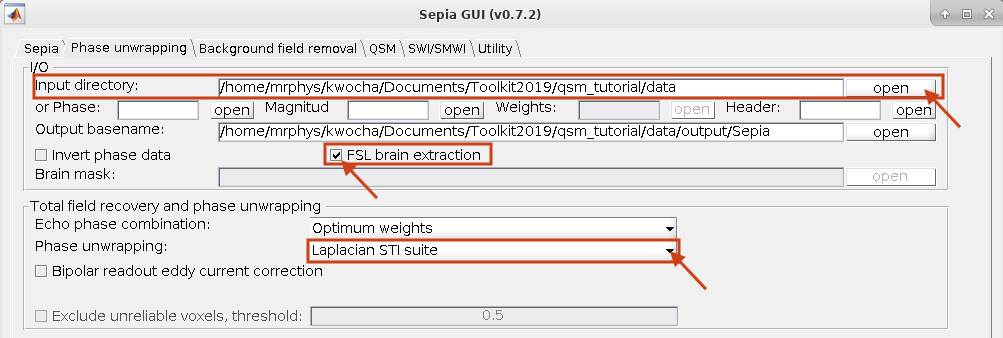
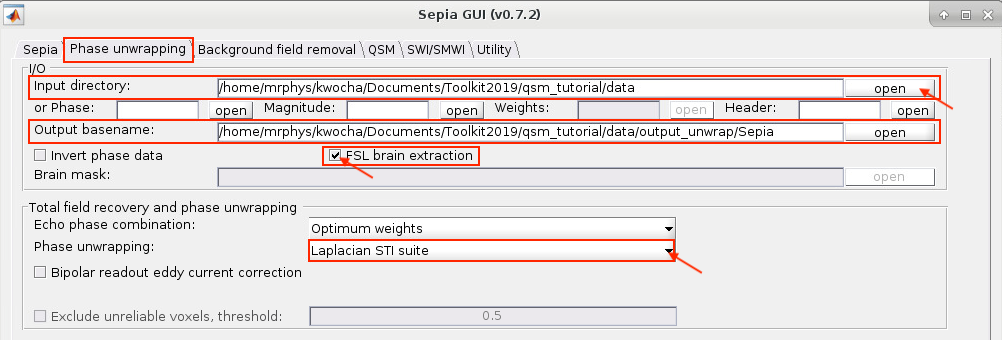
new commit

diff --git a/conf.py b/conf.py
@@ -98,6 +98,7 @@ html_static_path = ['_static']
 # 'searchbox.html']``.
 #
 # html_sidebars = {}
+html_logo = 'asset/logo.png'
 
 
 # -- Options for HTMLHelp output ---------------------------------------------

diff --git a/tutorial/fMRItoolkit2019/Exercise4.rst b/tutorial/fMRItoolkit2019/Exercise4.rst
@@ -6,7 +6,7 @@ Exercise 4
 Objectives
 ----------
 
-- Understanding 
+- Understanding QSM dipole inversion
 - Gaining experience to use QSM algorithms
 
 Data Required
@@ -80,7 +80,6 @@ Exercise 4.3
 
 To further improve the quality of the QSM map, some methods, such as Star-QSM, incorporate the additional information during the QSM dipole inversion.
 
-#. Select the **Magnitude** input: *mag.nii.gz*
 #. Change the **Output basename** to: *~/qsm_tutorial/data/output_qsm/Sepia_star-qsm*.
 #. Change the **QSM** method to 'Star-QSM' and press **Start**. It will take about 2 mins to finish.
 #. Check the result *Sepia_star-qsm_QSM.nii.gz* in the output directory. Display it along with the *Sepia_tdf-0p15_QSM.nii.gz* in FSLeyes. Can you see any difference?

diff --git a/tutorial/fMRItoolkit2019/Exercise2.rst b/tutorial/fMRItoolkit2019/Exercise2.rst
@@ -6,7 +6,7 @@ Exercise 2
 Objectives
 ----------
 
-- Understanding why we need to correct the phase data before mapping the magnetic susceptibility
+- Understanding how to perform phase unwrapping
 
 Data Required
 ^^^^^^^^^^^^^
@@ -83,7 +83,7 @@ You will see two panels under the tab: the **I/O** panel is for data input and o
 In the **I/O** panel:
 
 #. Select the **Input directory**: *~/qsm_tutorial/data*
-# Change the **Output basename** to: *~/qsm_tutorial/data/output_unwrap/Sepia*
+#. Change the **Output basename** to: *~/qsm_tutorial/data/output_unwrap/Sepia*
 #. Check the **FSL brain extraction** 
    It is essential to have a brain mask to produce a high-quality QSM map.  
 

diff --git a/tutorial/fMRItoolkit2019/Exercise3.rst b/tutorial/fMRItoolkit2019/Exercise3.rst
@@ -49,7 +49,7 @@ In the **I/O** panel, specify by using the open buttons:
 Second, in the **Background field removal** panel, the 'LBV' method is shown by default. You can have three parameters to adjust. 
 
 - 'Tolerance': a threshold to stop the algorithm. 
-- 'Depth':. 
+- 'Depth': multigrid level. 
 - 'Peel': the layer of boundary voxels to be removed after computing the tissue (or so-called local) fields. 
 
 In this exercise, we will focus on the differences when using different 'Peel' values. 
